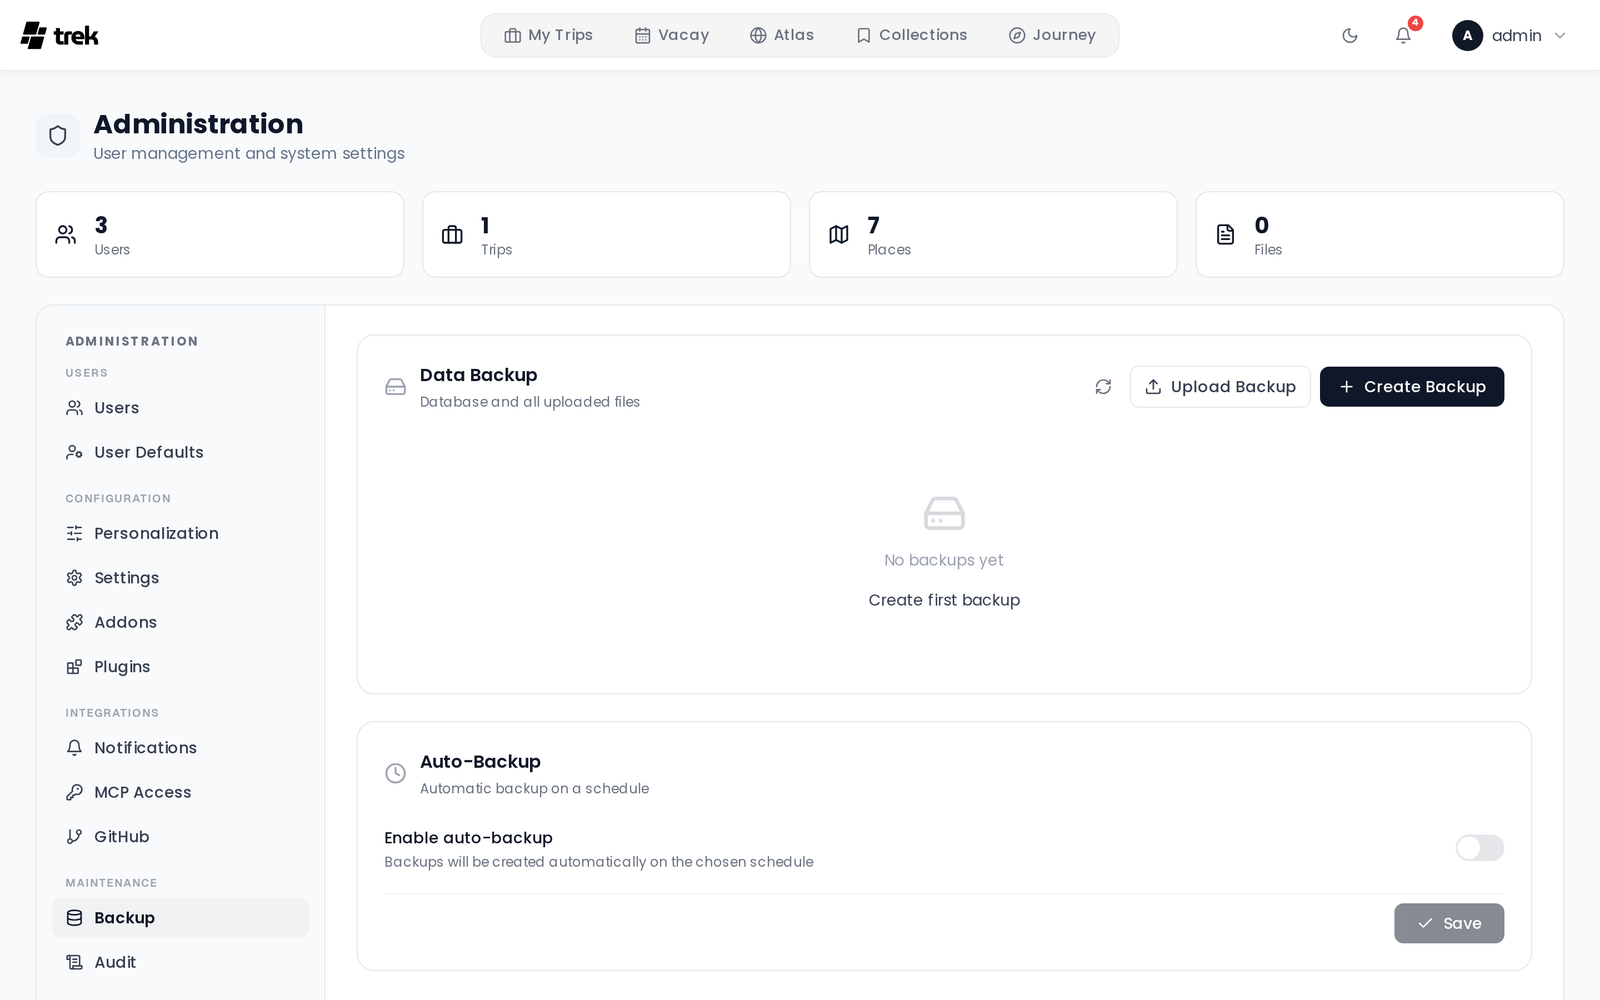
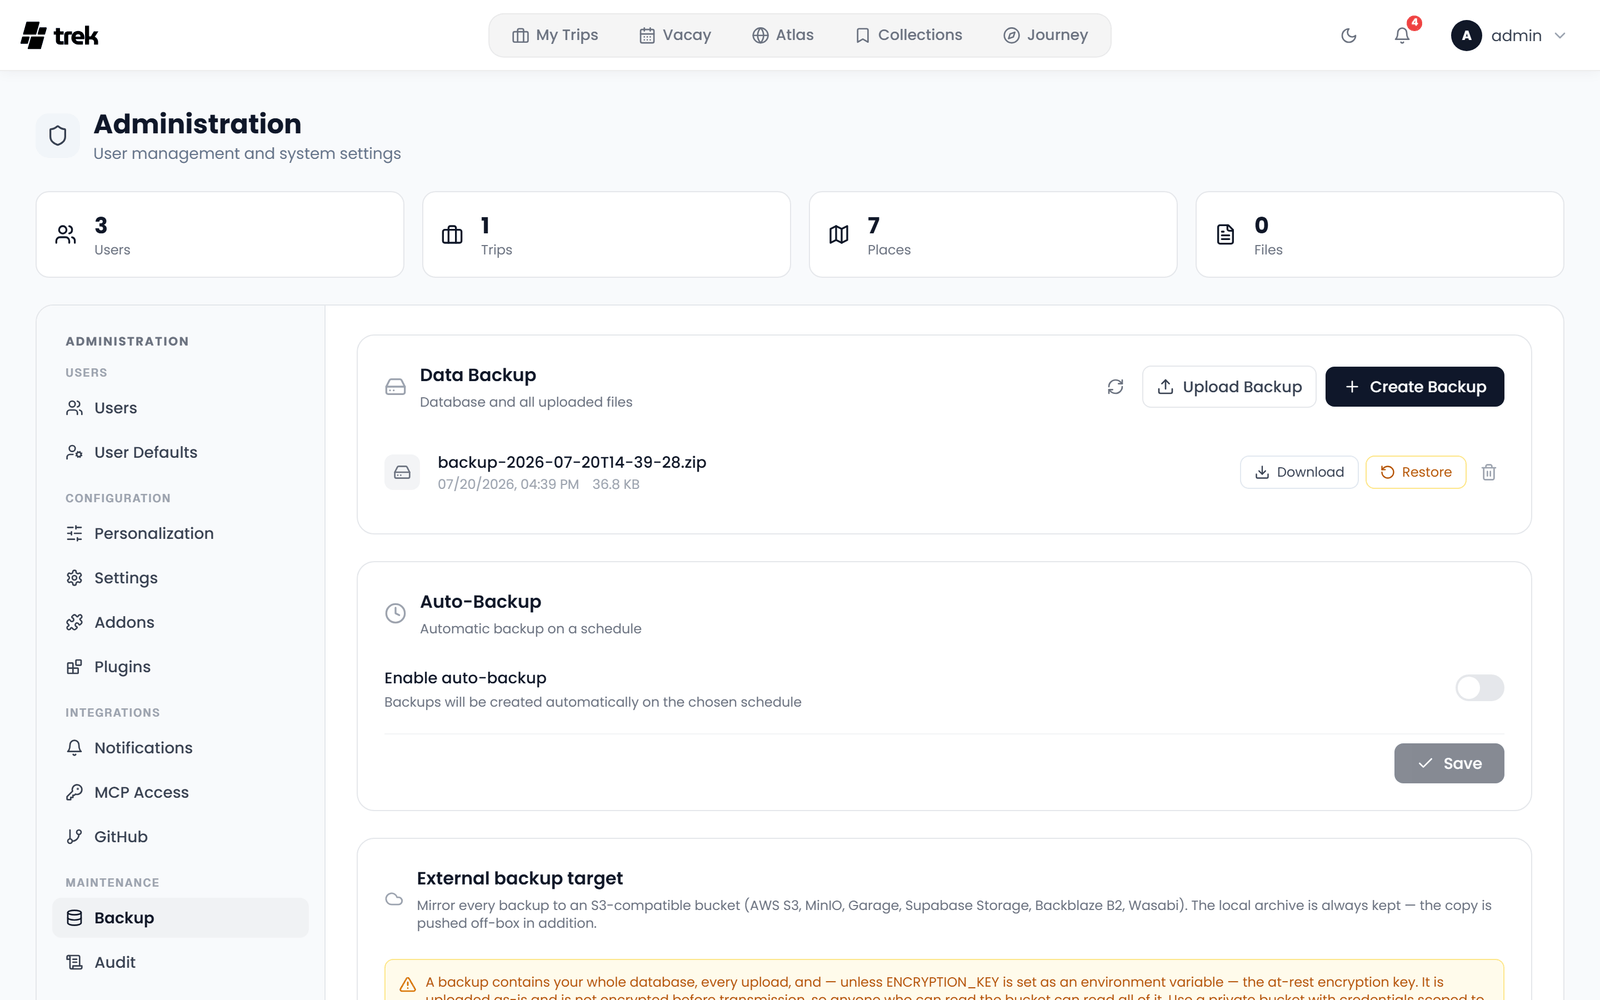
docs(backup): re-shoot the Backup panel and add a target screenshot
Backup.png predates the external target section. Re-captured through the
existing pipeline (seed project, then shots, then promote), so it is
downscaled and re-encoded like every other wiki asset.

The target form sits below the fold, so a viewport capture cuts it off
exactly where the new content starts. Added a second, element-scoped
capture of the card and embedded it in the section it documents, rather
than showing a page screenshot in which the feature is invisible.

diff --git a/client/e2e/screenshots/settings.shot.ts b/client/e2e/screenshots/settings.shot.ts
@@ -94,6 +94,18 @@ test.describe('admin panel', () => {
     await shot.page_('Backup')
   })
 
+  test('external backup target', async ({ page, shot }) => {
+    await openSidebarTab(page, 'Backup')
+    // The section sits below the fold, so a viewport capture would cut it off.
+    // element() scrolls it into view and frames the card on its own.
+    await shot.element(
+      'BackupTarget',
+      // .bg-white narrows to the card itself; a bare .rounded-2xl also matches
+      // the outer admin container that wraps every panel.
+      page.locator('.bg-white.rounded-2xl').filter({ hasText: 'External backup target' }),
+    )
+  })
+
   test('audit log', async ({ page, shot }) => {
     await openSidebarTab(page, 'Audit')
     await shot.page_('Audit')

diff --git a/wiki/Backups.md b/wiki/Backups.md
@@ -94,6 +94,8 @@ the UI rather than disappearing behind a success message.
 > it alone, and prefer a provider and jurisdiction you are willing to trust with that. Setting `ENCRYPTION_KEY` as an
 > env var keeps the key out of the archive, but the database contents still travel unencrypted at rest in the bucket.
 
+![External backup target](assets/BackupTarget.png)
+
 ### Setting it up
 
 1. Enter the **endpoint URL**, **bucket**, **region** and optionally a **path prefix** (e.g. `trek/backups/`) to